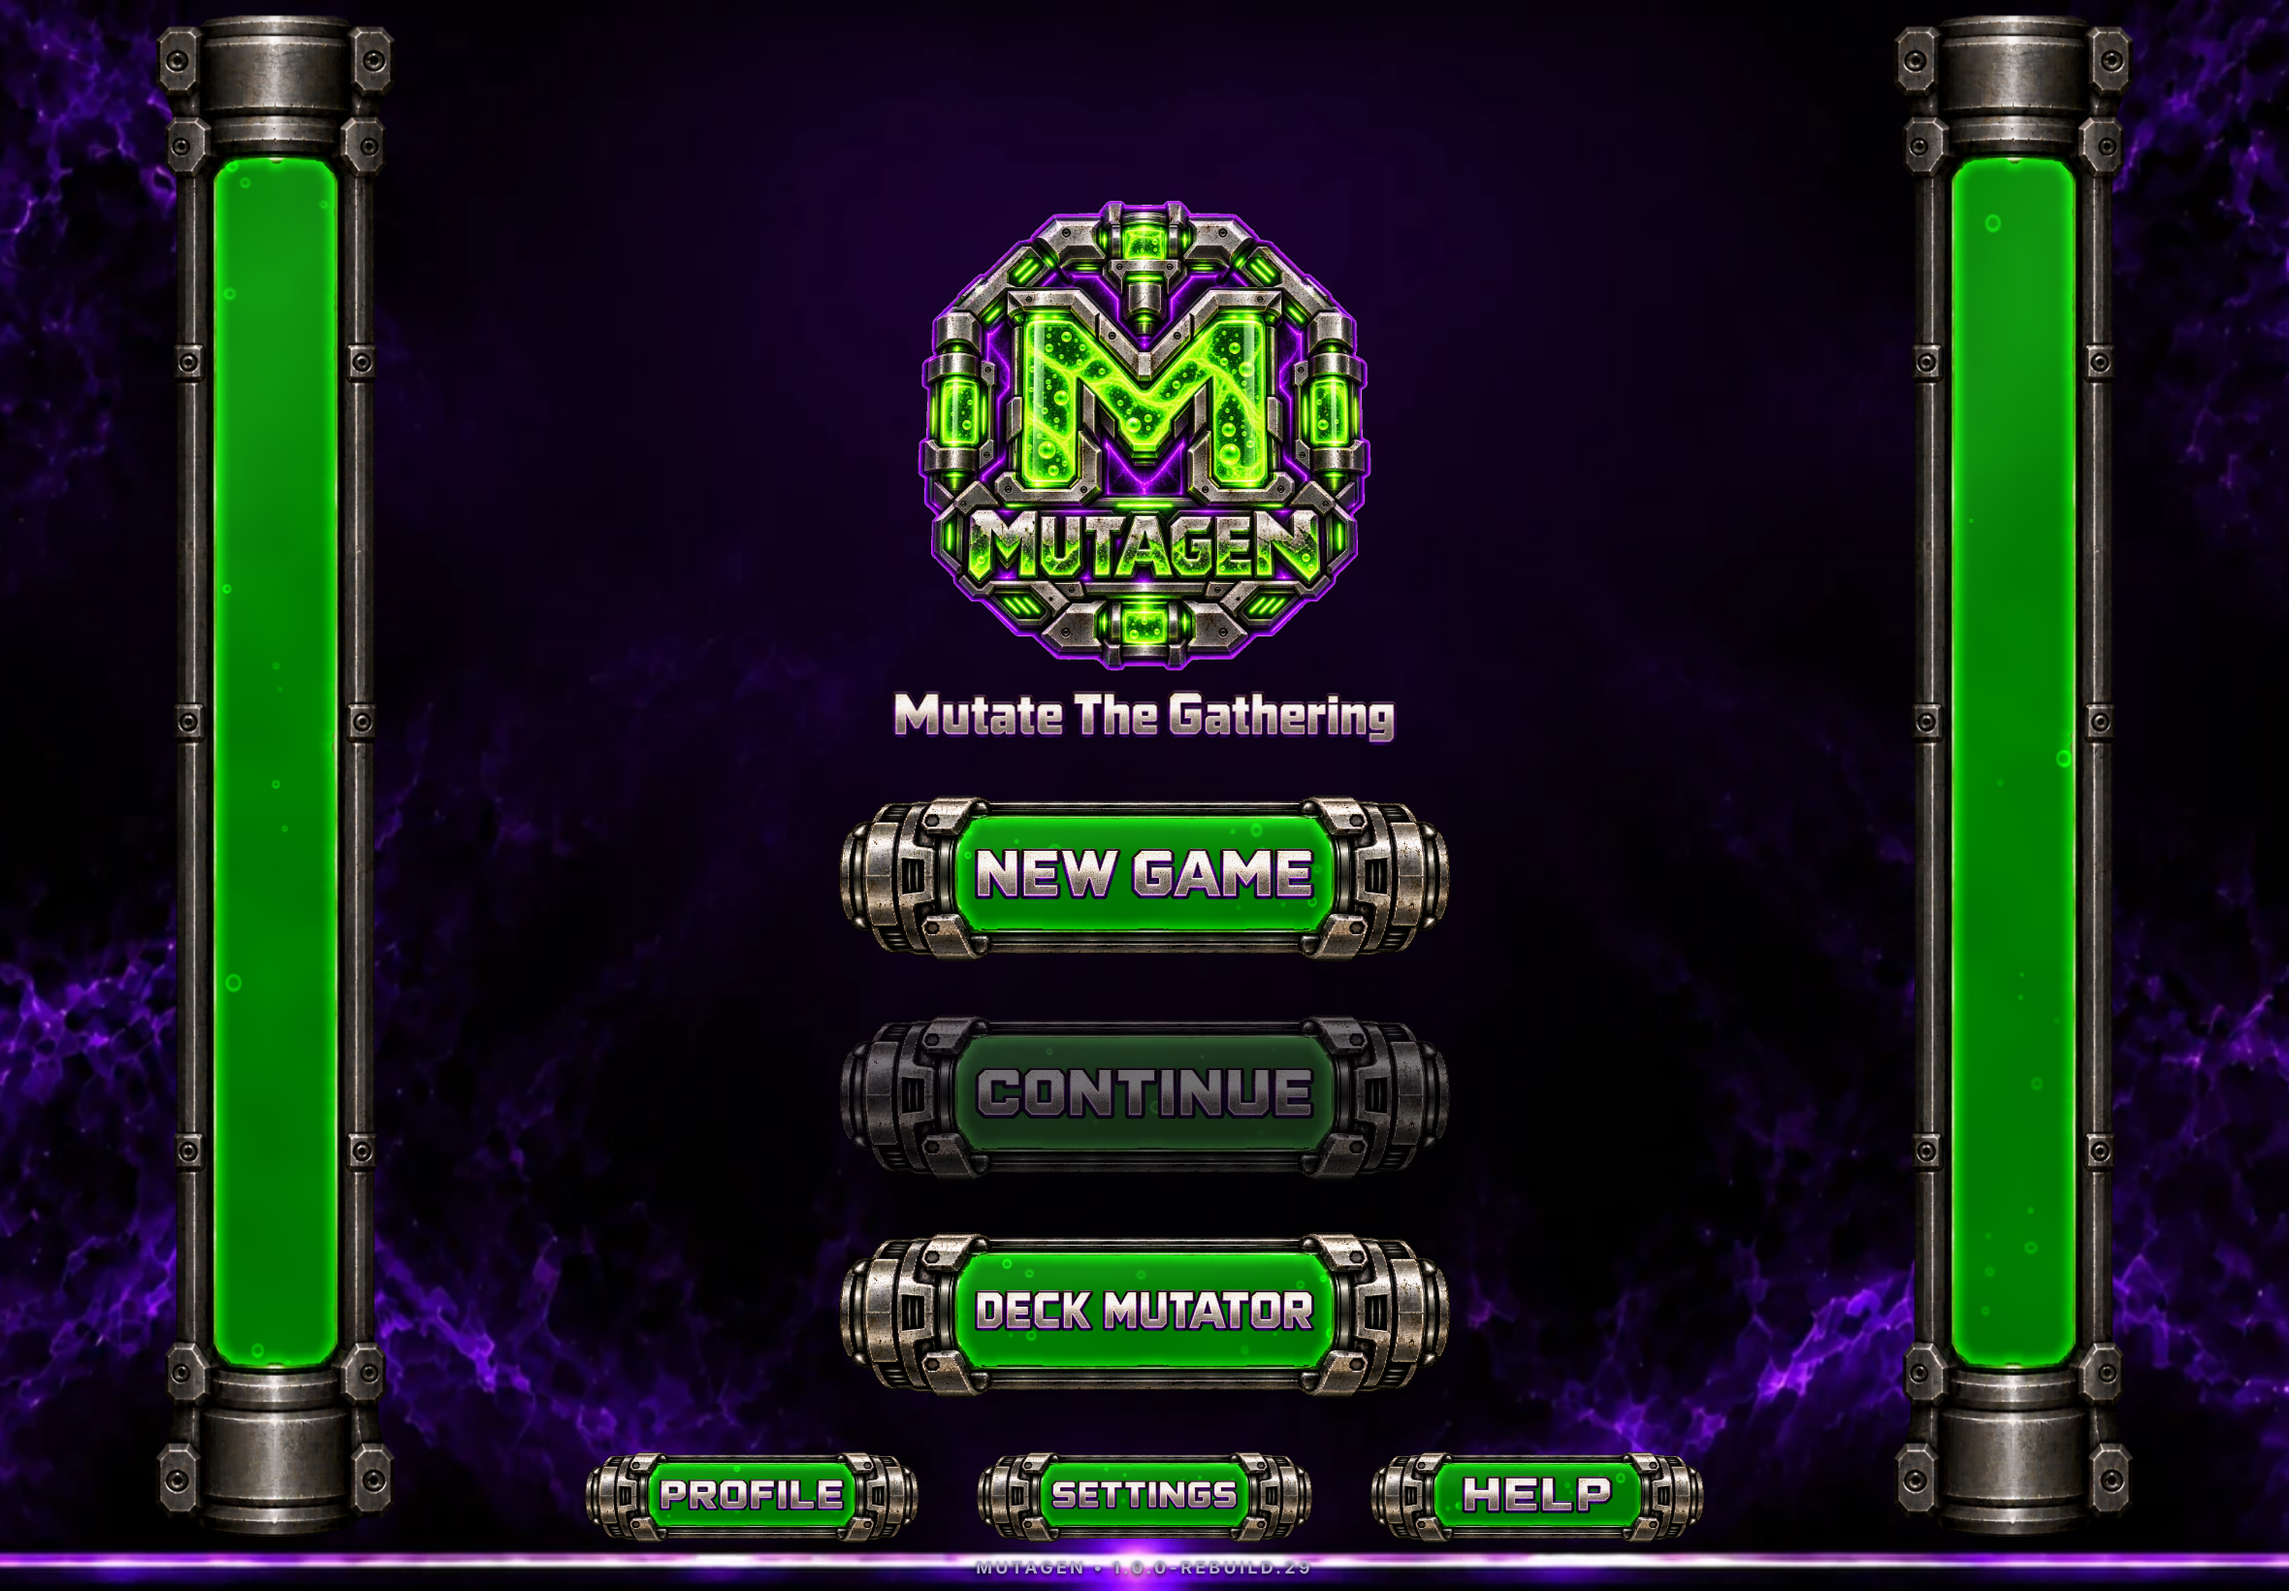
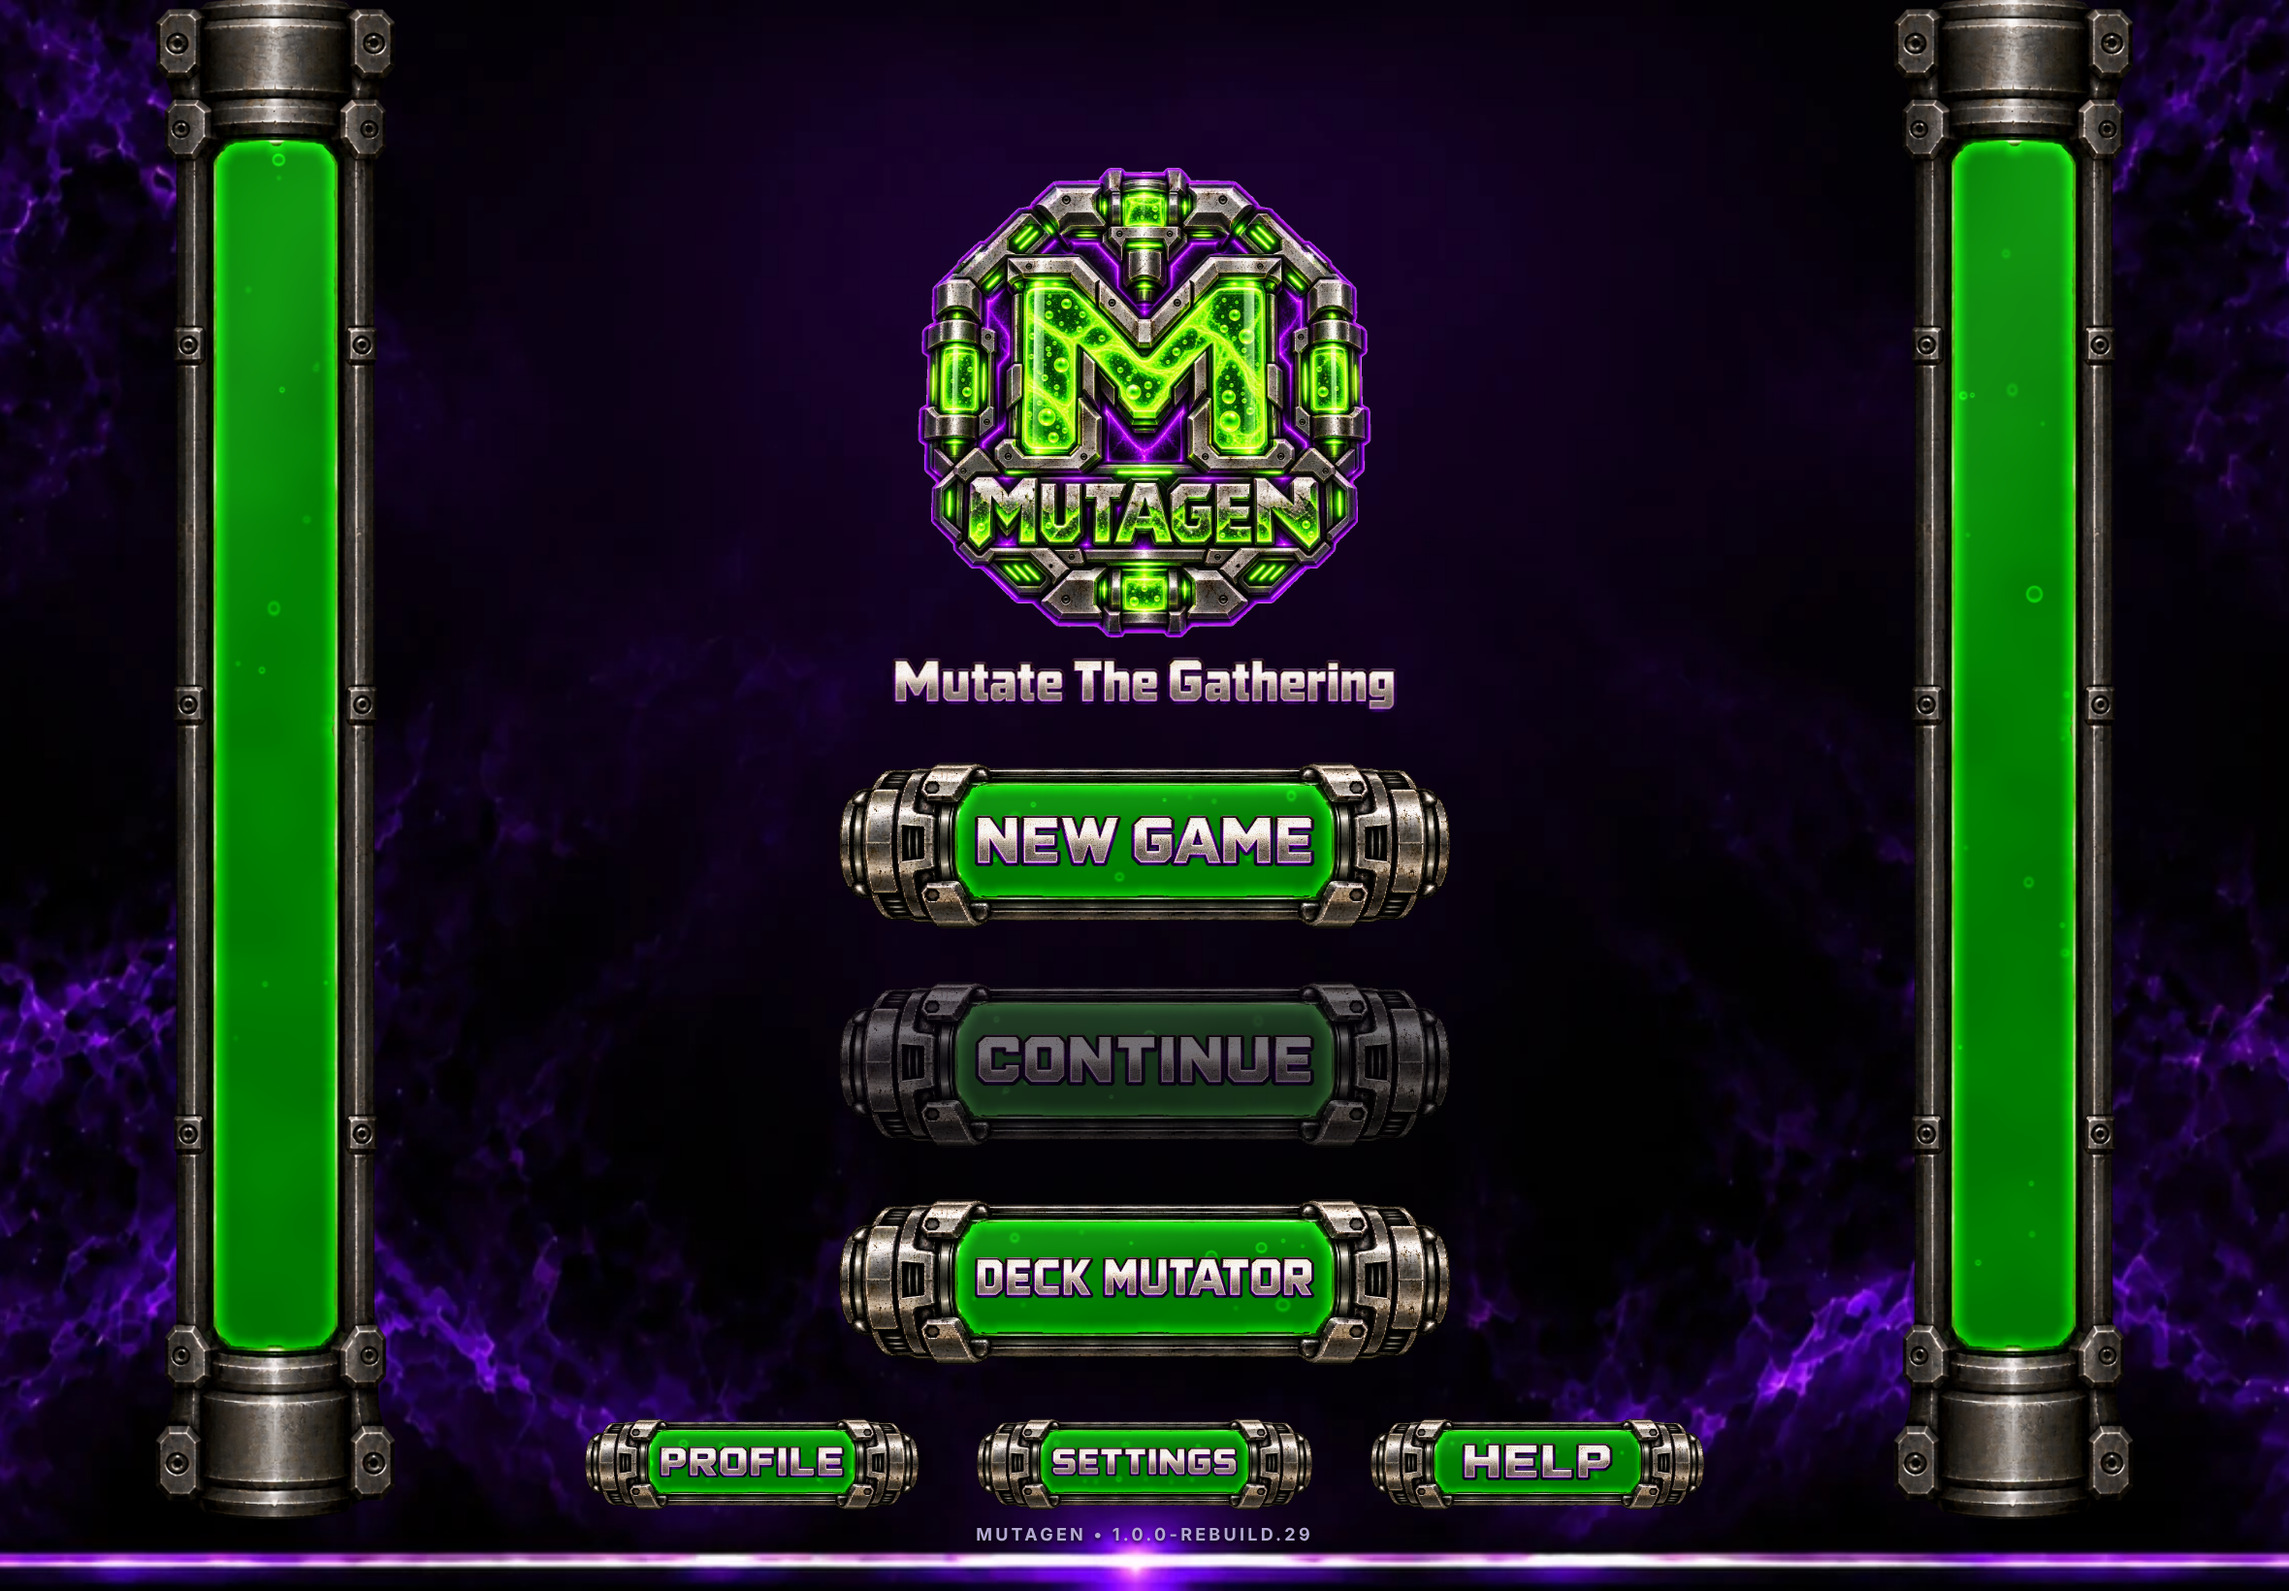
Home bottom row as a grid so it always fits between the columns (rev 045)
Claude-Session: https://claude.ai/code/session_016sWeNpuRyjh1SgHfXsP6BV

diff --git a/ui/home/home.css b/ui/home/home.css
@@ -13,8 +13,9 @@
 .mh-tagline { height: clamp(10px, 4.2vh, 40px); width: auto; max-width: 60vw; object-fit: contain; }
 .mh-primary { display: grid; justify-items: center; gap: clamp(0px, 0.4vh, 6px); }
 .mh-primary .mutagen-chamber { width: min(28vw, 40vh, 440px); }   /* three stacked: about 40% of the height */
-.mh-tools { display: flex; justify-content: center; gap: clamp(6px, 2vw, 28px); width: 100%; min-width: 0; }
-.mh-tools .mh-btn { flex: 0 1 min(18vw, 31vh, 300px); min-width: 0; }   /* shrink to fit between the columns so the stack stays centred */
+/* Three equal tracks that never exceed the space between the columns, so the stack stays centred in every browser. */
+.mh-tools { display: grid; grid-template-columns: repeat(3, minmax(0, min(18vw, 31vh, 300px))); justify-content: center; column-gap: clamp(6px, 2vw, 28px); width: 100%; min-width: 0; }
+.mh-tools .mh-btn { width: 100%; min-width: 0; }
 .mh-tools .mutagen-chamber { width: 100%; }
 .mh-btn { display: block; line-height: 0; border-radius: 1.2em; }
 .mh-btn:active:not(:disabled) { filter: brightness(1.25); }

diff --git a/docs/MUTAGEN-Visual-Change-Roadmap.md b/docs/MUTAGEN-Visual-Change-Roadmap.md
@@ -1,5 +1,10 @@
 # MUTAGEN V3 — Visual Change Roadmap — Revision 007 (2026-10-12)
 
+## CURRENT REVISION 045 — Bottom row laid out as a grid, 2026-10-25
+
+Owner's iPad photo still showed the stack right of the columns. The photo matched the styles from before revision 042 (version text still on the bottom edge), so Safari had kept the old stylesheet: GitHub Pages lets browsers keep files for 10 minutes. To be safe in every browser engine, the PROFILE / SETTINGS / HELP row no longer relies on flex shrinking: it is three equal grid tracks that can never be wider than the space between the columns. Checked centred, with no overflow, at 11 sizes, including Safari's shorter iPad and iPhone viewports (address bar showing).
+
+
 ## CURRENT REVISION 044 — Stream at the old column speed; version text above the bottom edge, 2026-10-25
 
 Owner: the whole home stream runs at the speed the sight columns had on their own (about 31 px/s on iPad), not the slower button speed. Bubbles in the buttons ride the stream at the same pace. In the down-flowing left column they hover and drift slowly, as bubbles do against a downward current; in the up-flowing right column they rise as before. The version text moved up to clear the background's bright bottom edge; checked at six iPad and iPhone sizes. Owner confirmed the home screen is centred (rev 042) and the RESOLVE fix.

diff --git a/docs/MUTAGEN-Working-Source.md b/docs/MUTAGEN-Working-Source.md
@@ -1,5 +1,10 @@
 # MUTAGEN — rolling situation report and visual inventory
 
+## CURRENT REVISION 045 — Bottom row laid out as a grid, 2026-10-25
+
+Owner's iPad photo still showed the stack right of the columns. The photo matched the styles from before revision 042 (version text still on the bottom edge), so Safari had kept the old stylesheet: GitHub Pages lets browsers keep files for 10 minutes. To be safe in every browser engine, the PROFILE / SETTINGS / HELP row no longer relies on flex shrinking: it is three equal grid tracks that can never be wider than the space between the columns. Checked centred, with no overflow, at 11 sizes, including Safari's shorter iPad and iPhone viewports (address bar showing).
+
+
 ## CURRENT REVISION 044 — Stream at the old column speed; version text above the bottom edge, 2026-10-25
 
 Owner: the whole home stream runs at the speed the sight columns had on their own (about 31 px/s on iPad), not the slower button speed. Bubbles in the buttons ride the stream at the same pace. In the down-flowing left column they hover and drift slowly, as bubbles do against a downward current; in the up-flowing right column they rise as before. The version text moved up to clear the background's bright bottom edge; checked at six iPad and iPhone sizes. Owner confirmed the home screen is centred (rev 042) and the RESOLVE fix.
